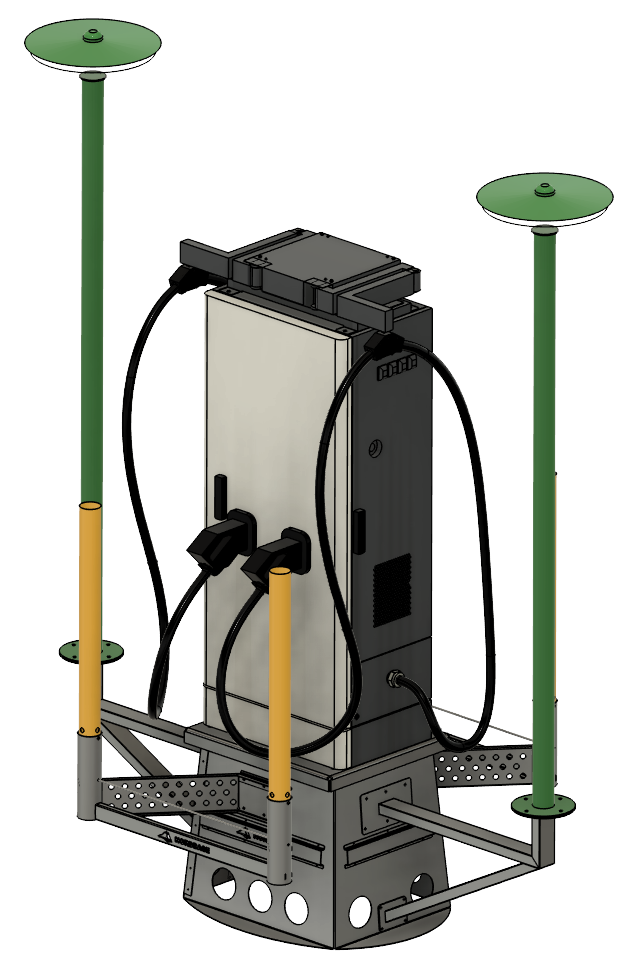
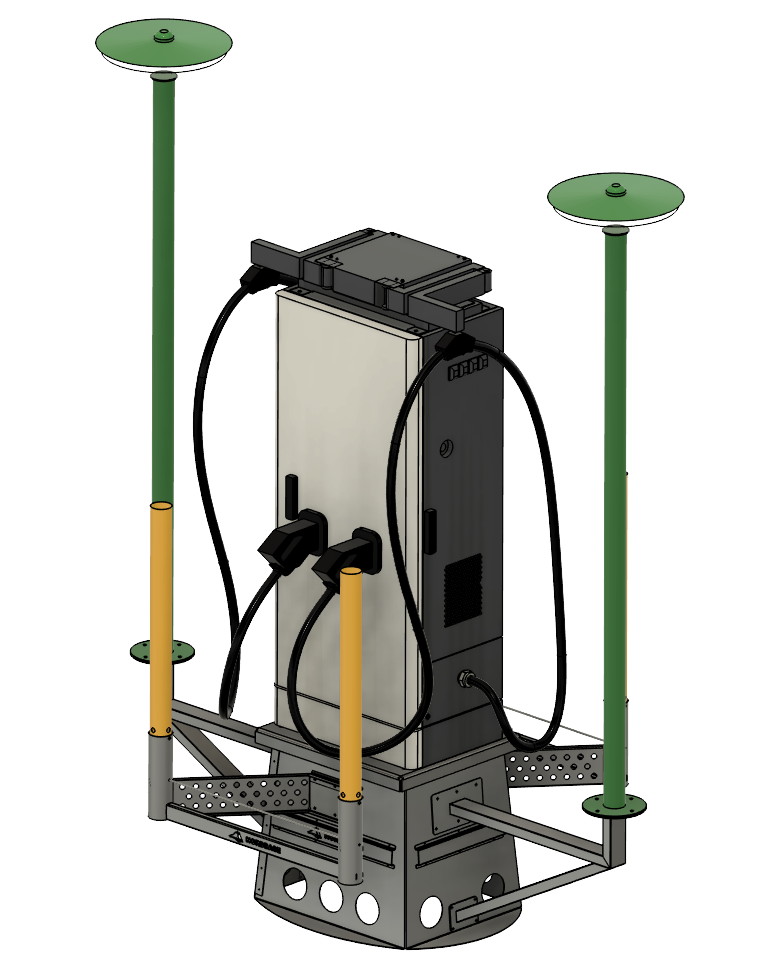
Fix hero image, widen header, normalize assembly card sizes, add bollard photo
- Hero: replace the white-background product render with a transparent-
  background crop (charger + one light pole) so it floats on the dark
  hero section instead of sitting in a stark white box, and reads as
  zoomed-in instead of small-and-distant. Removes the stray
  hero-installation.jpg.png that was accidentally uploaded alongside it.
- Site header: widened (max-w-7xl -> max-w-screen-2xl) and the logo
  bumped up a size, same fix applied to the calculator's header logo.
- Hero stat card: "Days" -> "Same-day" (matches existing copy elsewhere
  on the page; "Days" alone read oddly next to the other stats).
- Assembly section (AC & Bollard / DC Small / DC Medium): padded the AC
  and Small renders to the same aspect ratio as Medium so all three
  cards show their product at a consistent visual scale instead of one
  looking much larger than the other two.
- Calculator: added a real photo for the Schedule 10 standalone bollard
  assembly accessory, which previously showed "photo pending". Schedule
  40 Duplex still has no real photo and correctly still shows the
  pending placeholder rather than a misleading substitute.

Changed region(s): [[0.0298, 0.0, 0.9828, 0.9846]]

diff --git a/site/src/App.jsx b/site/src/App.jsx
@@ -227,7 +227,7 @@ export default function App() {
     <div className="min-h-screen bg-dark text-white">
       {/* NAV */}
       <header className="sticky top-0 z-50 border-b border-white/10 bg-dark/90 backdrop-blur">
-        <div className="mx-auto flex max-w-7xl items-center justify-between gap-3 px-4 py-3 sm:px-6">
+        <div className="mx-auto flex max-w-screen-2xl items-center justify-between gap-3 px-4 py-3 sm:px-8">
           {/* shrink-0 is load-bearing: without it, on narrow screens the flex
               row squeezes this link below the logo image's natural width and
               the image overflows behind the CTA button instead of resizing
@@ -236,7 +236,7 @@ export default function App() {
             <img
               src="/logo/logo-nav-light.png"
               alt="Nordinfra"
-              className="h-7 w-auto sm:h-8"
+              className="h-9 w-auto sm:h-11"
             />
           </a>
           <nav className="hidden items-center gap-8 text-sm font-medium text-white/70 md:flex">
@@ -303,19 +303,21 @@ export default function App() {
             </div>
 
             <div className="mt-12 grid grid-cols-2 gap-3">
-              <StatCard icon={Clock} value="Days" label="Typical install time" />
+              <StatCard icon={Clock} value="Same-day" label="Typical install time" />
               <StatCard icon={Leaf} value="Up to 60%" label="Lower CO2e vs. concrete" />
               <StatCard icon={ShieldCheck} value="ASCE 7-22" label="Wind & seismic method" />
               <StatCard icon={Factory} value="4" label="Foundation sizes" />
             </div>
           </div>
-          <div className="relative min-h-[320px] md:min-h-full">
+          {/* Transparent-background product render, not a photo — object-contain
+              keeps the whole assembly visible and lets the dark section
+              background show through instead of a hard-edged photo crop. */}
+          <div className="relative flex min-h-[320px] items-center justify-center px-6 py-10 md:min-h-full">
             <img
-              src="/photos/hero-installation.jpg"
-              alt="NordBase steel foundations being set on a US jobsite"
-              className="absolute inset-0 h-full w-full object-cover"
+              src="/photos/hero-installation.png"
+              alt="NordBase DC Medium foundation with charger and site lighting"
+              className="h-full max-h-[560px] w-auto object-contain md:max-h-[640px]"
             />
-            <div className="absolute inset-0 bg-gradient-to-r from-dark via-dark/10 to-transparent md:bg-gradient-to-r md:from-dark md:via-transparent md:to-transparent md:w-1/4" />
           </div>
         </div>
       </section>

diff --git a/src/NordBaseCalculator.jsx b/src/NordBaseCalculator.jsx
@@ -1190,7 +1190,7 @@ export default function NordBaseCalculator() {
           <img
             src="/logo/logo-nav-dark.png"
             alt="Nordinfra"
-            className="h-7 w-auto shrink-0"
+            className="h-10 w-auto shrink-0"
           />
           <div className="h-8 w-px shrink-0 bg-black/10" />
           <div>
